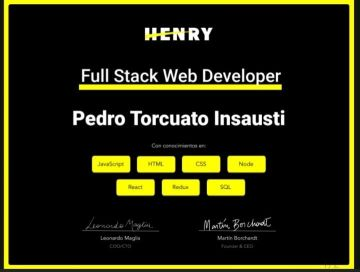
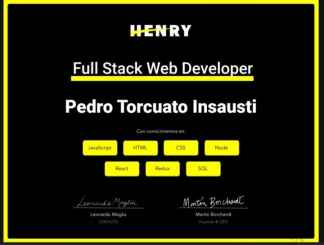
prueba2

diff --git a/src/Redux/reducer/index.js b/src/Redux/reducer/index.js
@@ -1,5 +1,5 @@
 import image1 from '../../foto.jpg'
-import image3 from '../../certificado.jpg'
+import image3 from '../../certificado2.jpg'
 const initialState = {
  cards: [{image: image1, title: "Pedro Insausti", description: " Soy Fullstack developer y bienvenidos a mi portfolio, donde podran conocer algunas de mis skills, mis proyectos y parte de mi vida personal."},{title: "¿Qué significa Henry? ", image: image3, description:"Henry es un bootcamp que me dio herramientas, conocimientos y me intrudujo al mundo IT haciendome conocer una comunidad extraordinaria con una gran calidad humana. Significó un gran paso en mi vida "}]
  };
